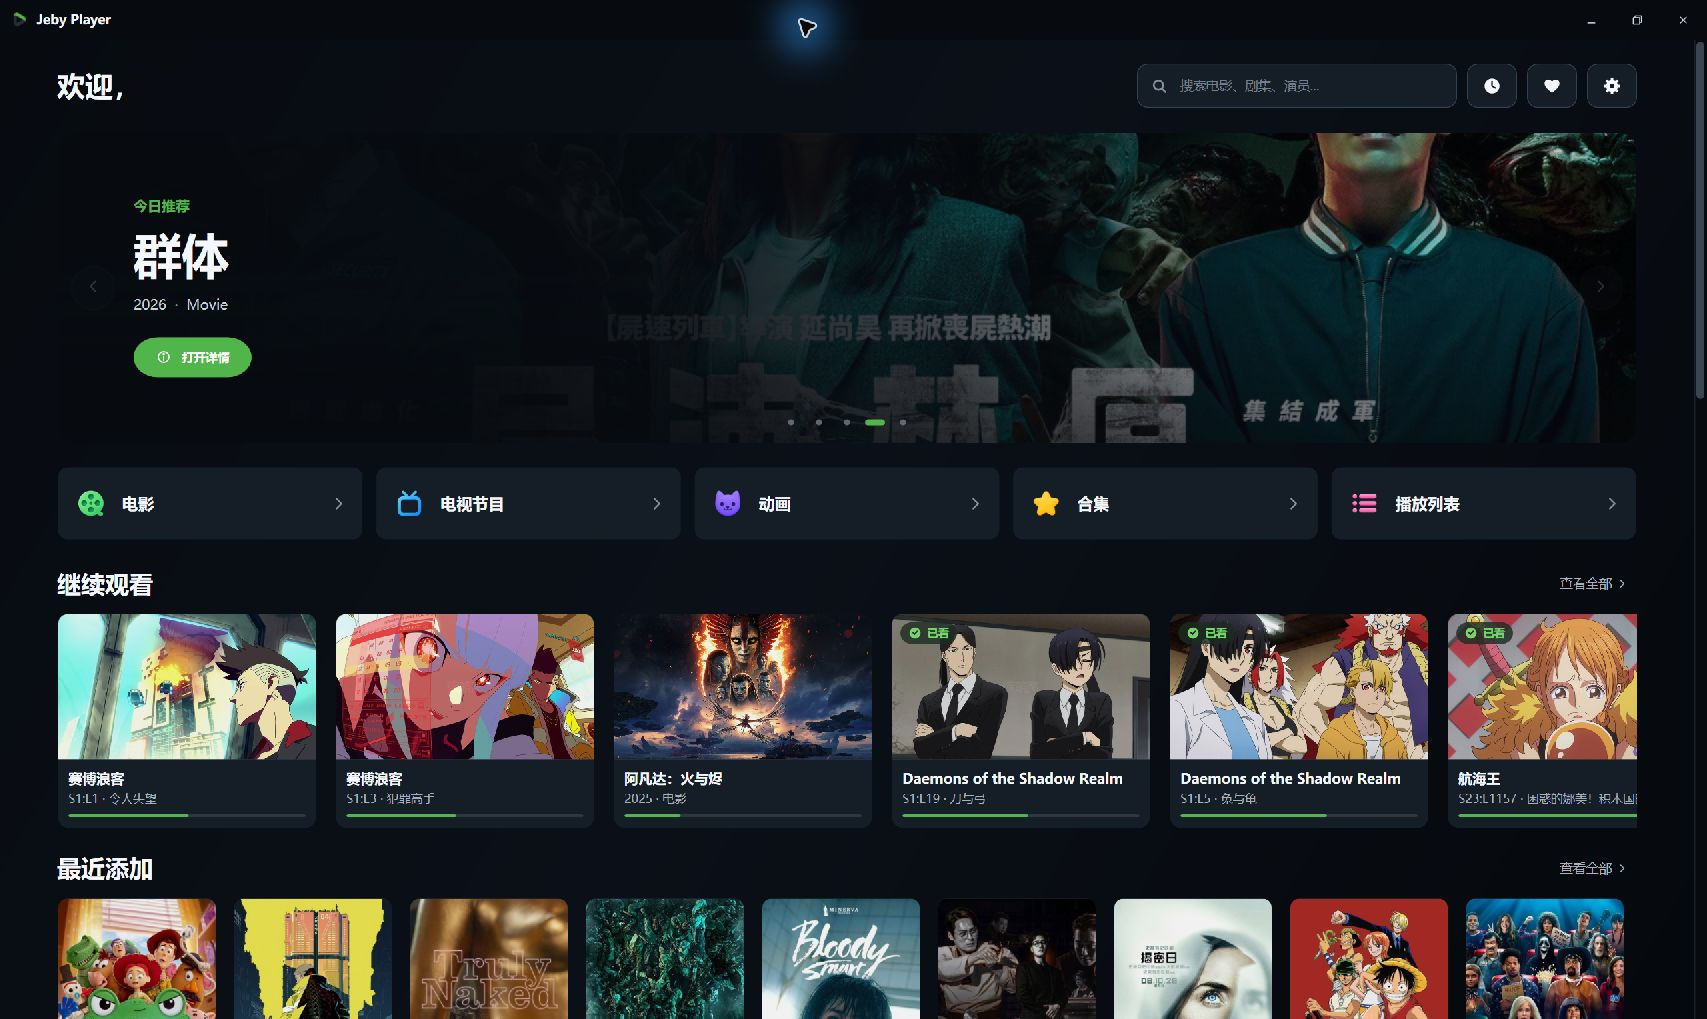
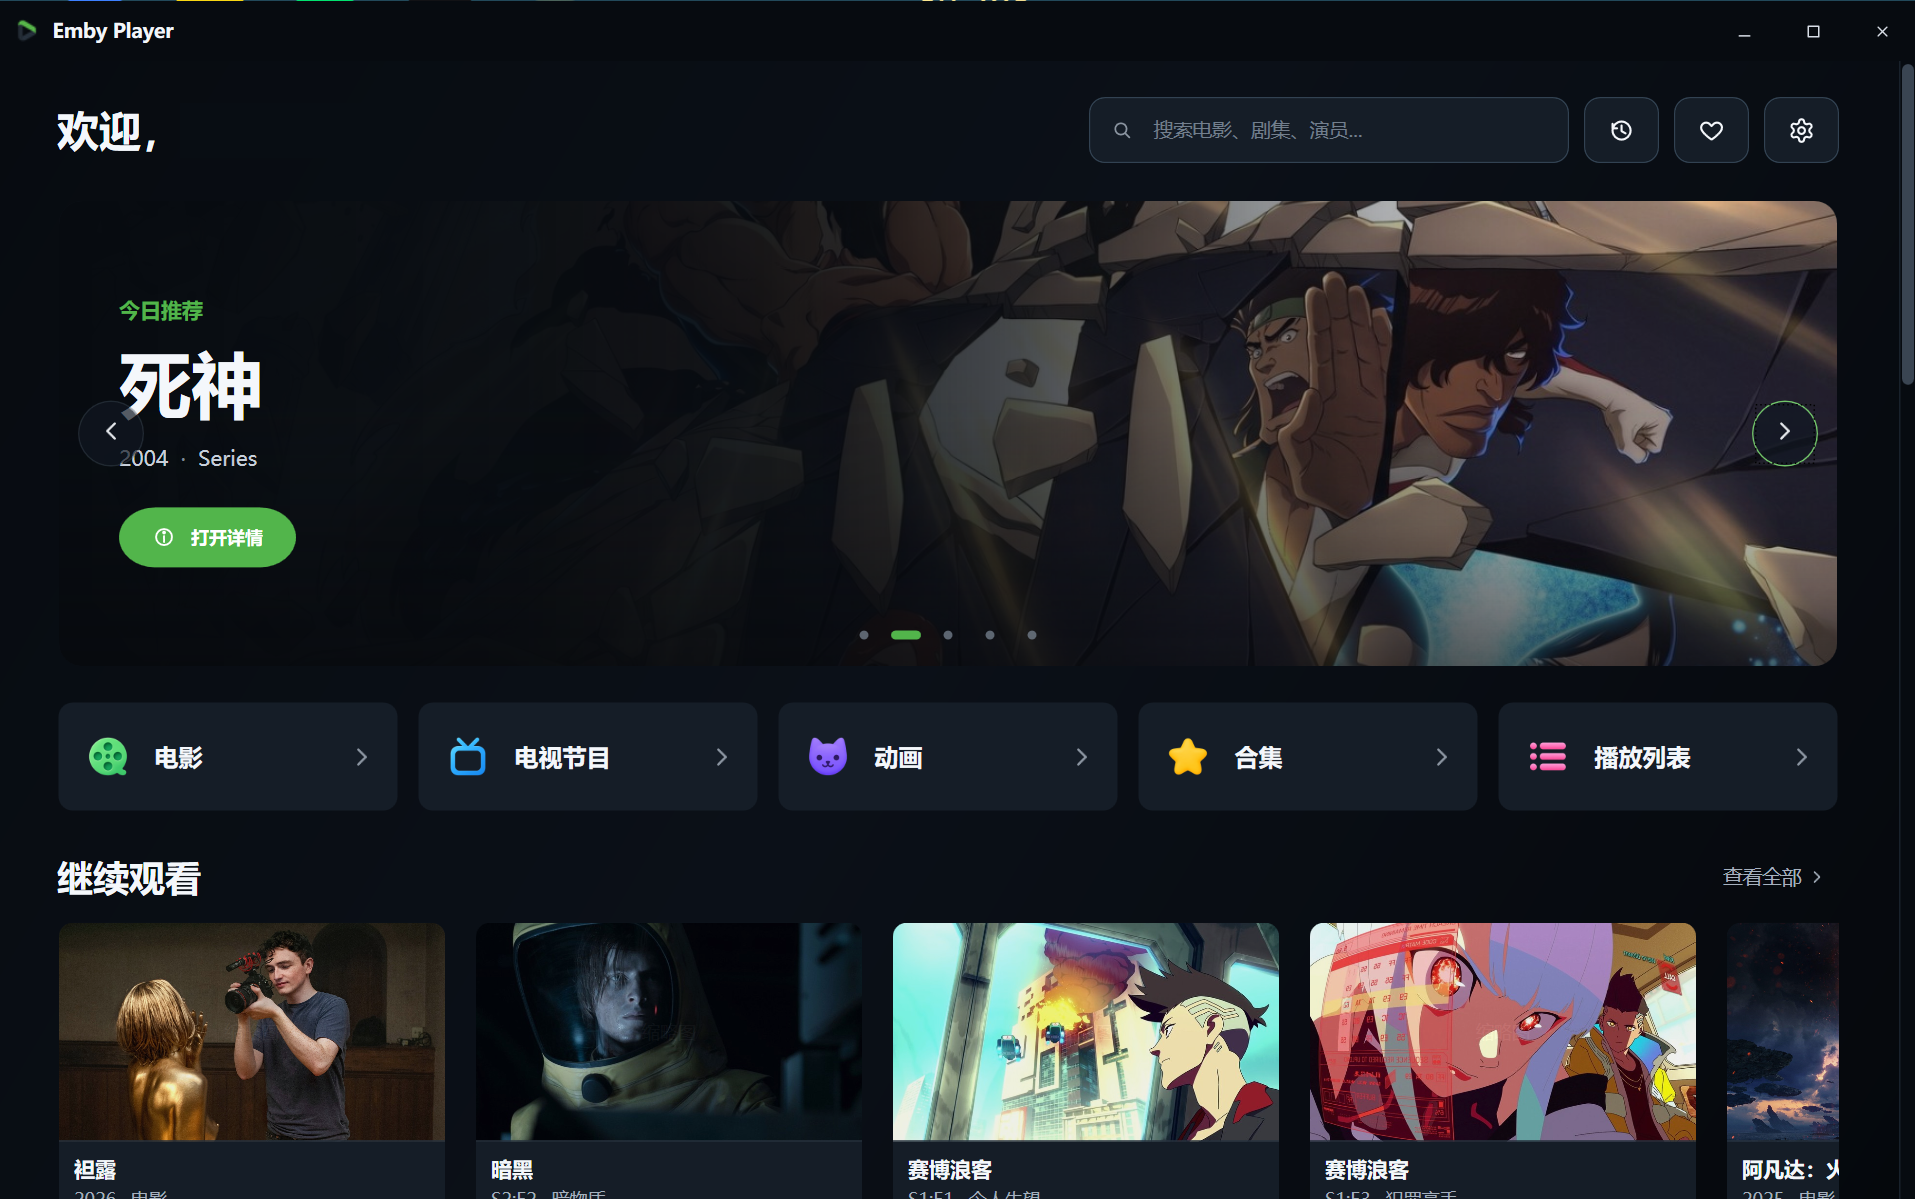
Refresh home screenshot and clarify beta launcher filename

diff --git a/docs/RELEASE_NOTES_1.0.0-beta.1.md b/docs/RELEASE_NOTES_1.0.0-beta.1.md
@@ -4,7 +4,9 @@
 
 ## 下载与安装
 
-下载 **[Windows 应用包（约 153 MB）](https://github.com/blackriki/jeby-player/releases/download/v1.0.0-beta.1/JebyPlayer-1.0.0-beta.1-win-x64-selfcontained.zip)**，完整解压后运行 `EmbyPlayer.App.exe`，输入服务器地址并登录。
+下载 **[Windows 应用包（约 153 MB）](https://github.com/blackriki/jeby-player/releases/download/v1.0.0-beta.1/JebyPlayer-1.0.0-beta.1-win-x64-selfcontained.zip)**，完整解压后双击启动文件，打开 Jeby Player，再输入服务器地址并登录。
+
+本版本启动文件名为 `EmbyPlayer.App.exe`，产品名称为 **Jeby Player**。
 
 应用包自带 .NET 和 MPV，无需另装运行时。`mpv-corresponding-sources.zip` 是播放内核及依赖的源码附件，日常使用无需下载。`SHA256SUMS.txt` 用于校验下载文件。
 
